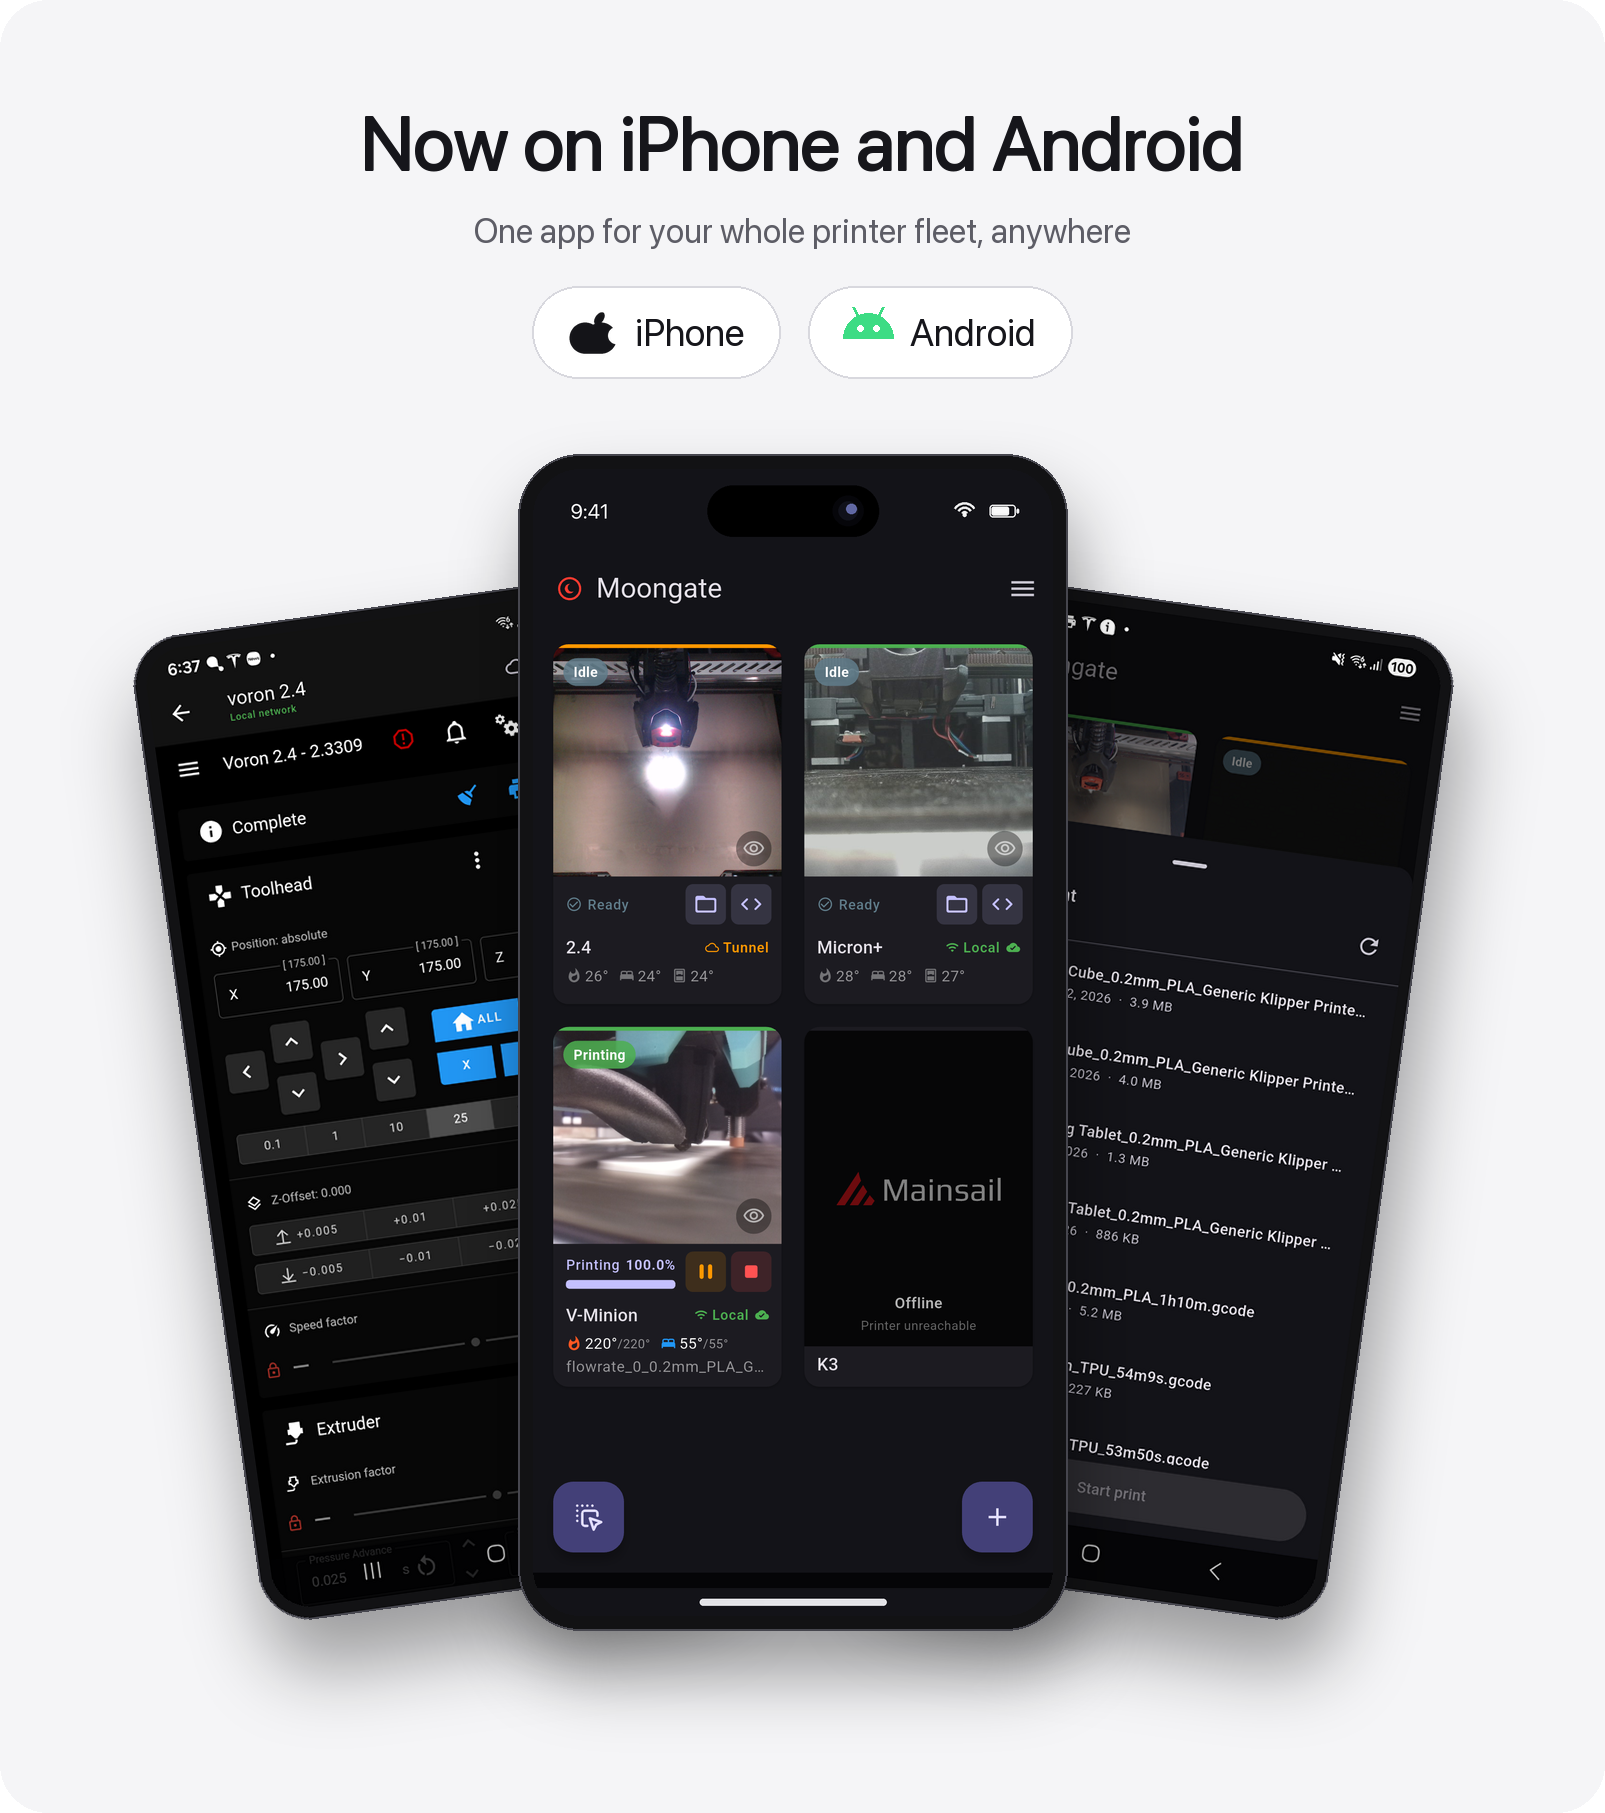
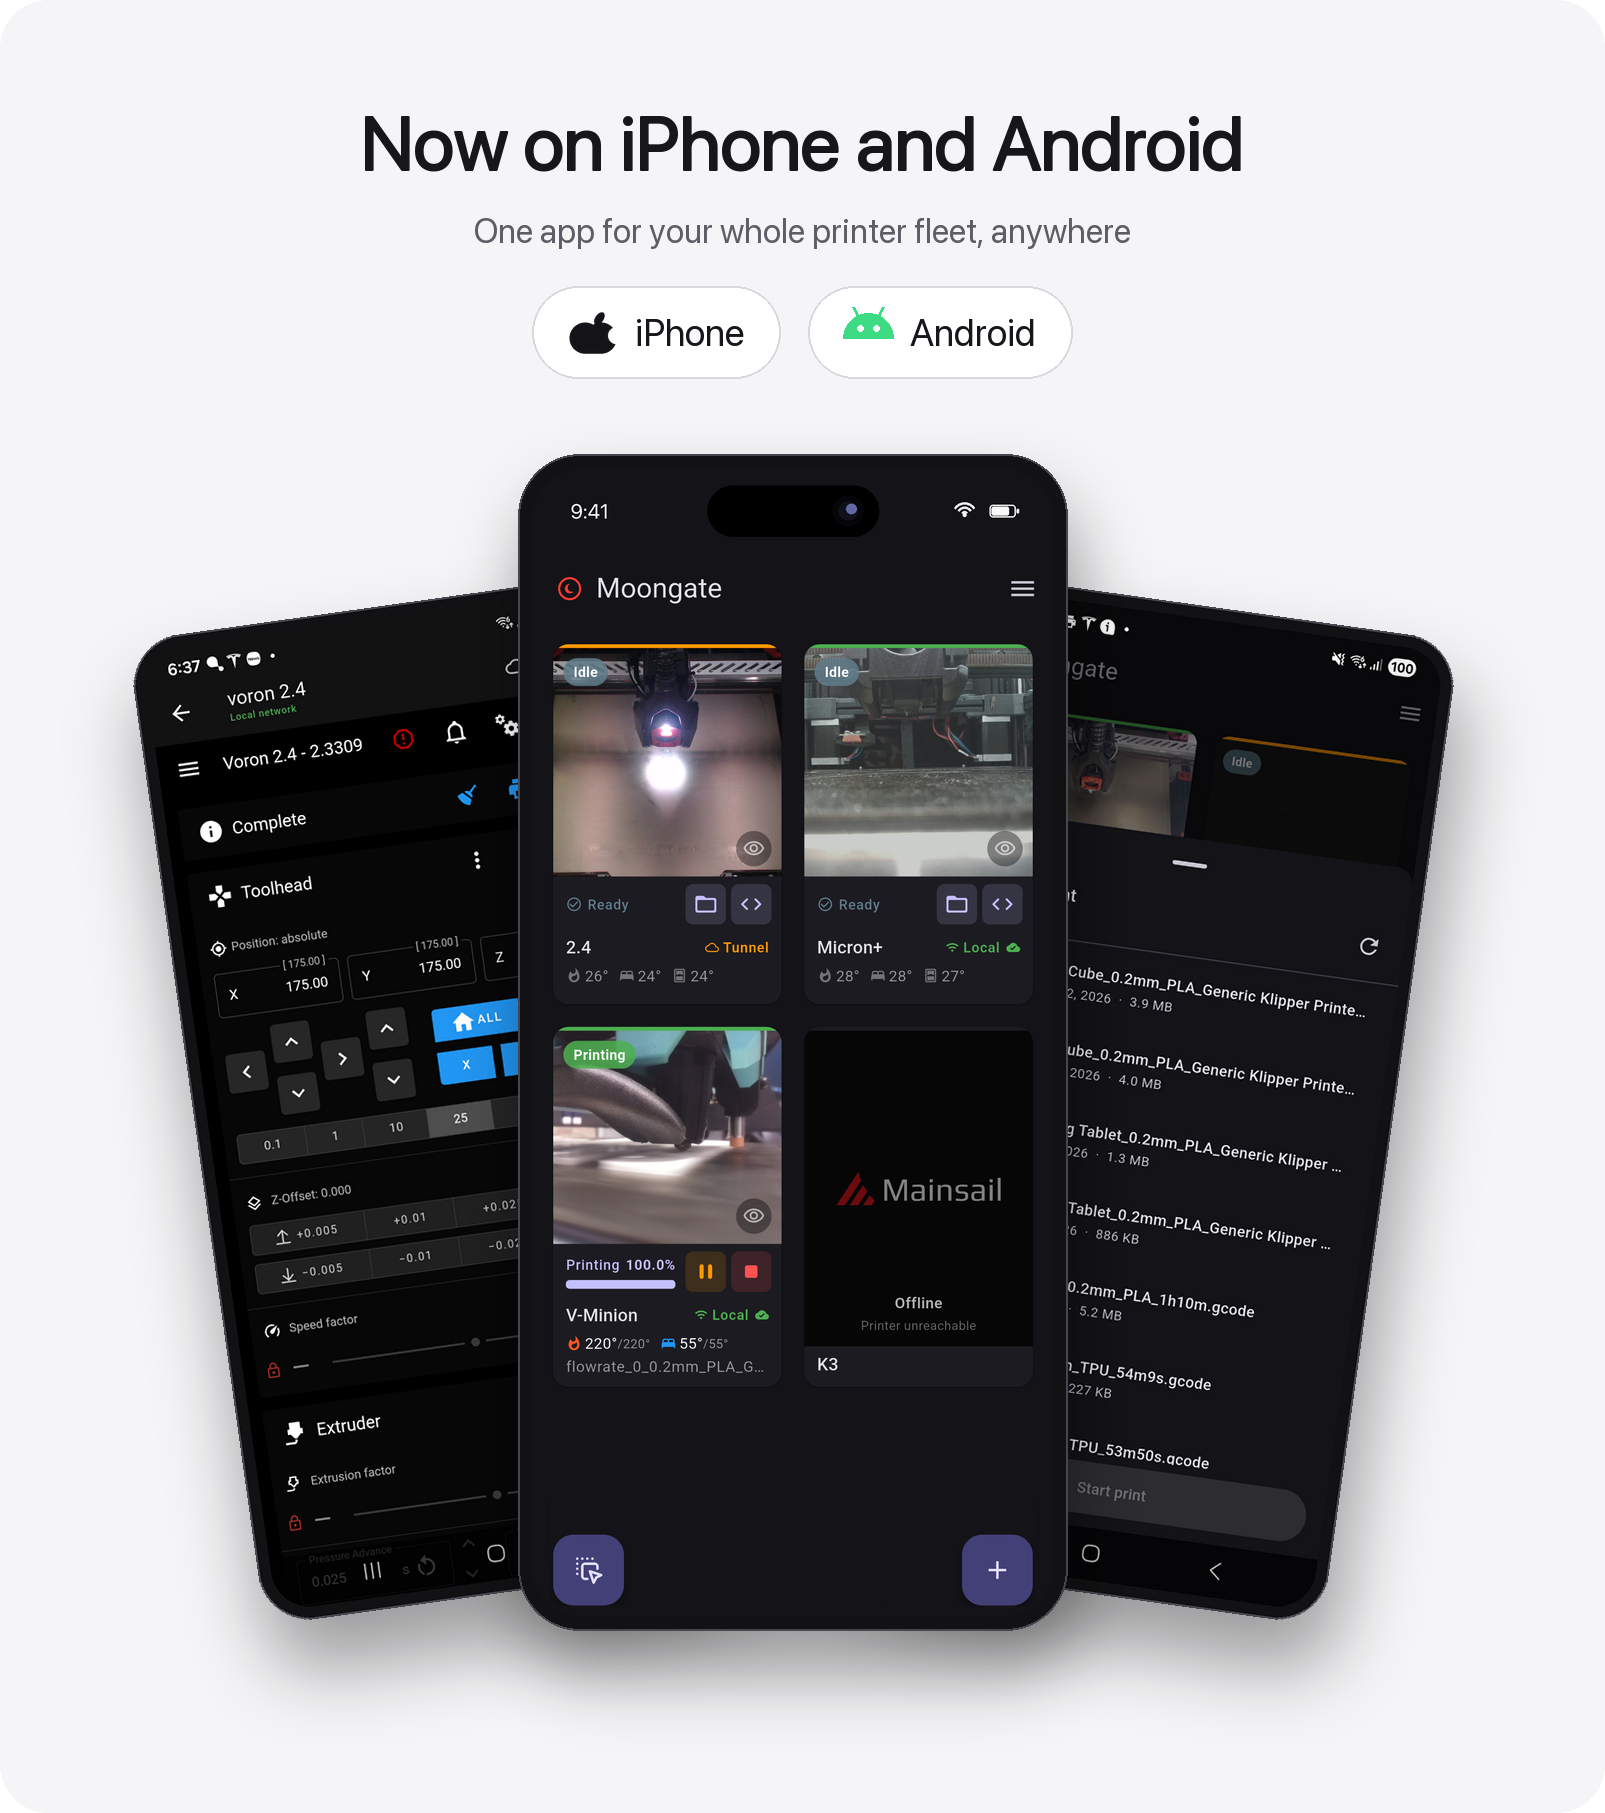
docs: v0.9.46 session sweep + refreshed iOS hero image [skip ci] (#177)
- README: note the new pause/play button in the print-notifications feature.
- TROUBLESHOOTING: add a "notification vanished / paused" entry for v0.9.46.
- Swap in the tweaked hero-ios.png (the README already points at it).

ARCHITECTURE / DEVELOPMENT / SECURITY unaffected: the pause is a UI control
over the existing notification service, no new component, endpoint, or auth
change. The v0.9.46 changelog already shipped in #176.

Changed region(s): [[0.5919, 0.8031, 0.6542, 0.8958], [0.3427, 0.8031, 0.405, 0.8958], [0.4361, 0.8649, 0.5607, 0.8958]]

diff --git a/TROUBLESHOOTING.md b/TROUBLESHOOTING.md
@@ -65,6 +65,10 @@ If you power a printer back on (from Home Assistant, a smart plug, or its own sw
 
 To save battery, your phone can freeze Moongate while it's in the background, which briefly drops its live-status link - so on return the app still thinks the printer is off, even though the notifications may already show it back. Since **v0.9.45**, Moongate re-checks every printer's live status the moment you switch back to it, so the tile clears itself within a few seconds, no force-close needed. On older versions, force-stop Moongate and reopen it to refresh.
 
+## Your print-status notification vanished, or notifications stopped updating
+
+If print notifications were on but the ongoing status notification is gone and you're no longer getting updates, you may have **paused** them. Since **v0.9.46** there's a **pause/play button** in the dashboard top bar (it appears when notifications are on): tapping **pause** stops Moongate checking your printers in the background, which saves battery and removes the ongoing notification. Tap the same button (now a **play** icon) to resume. A pause is remembered across app restarts and reboots, so it stays off until you tap play.
+
 ## Chamber temperature missing on the dashboard
 
 If a printer's chamber temperature doesn't appear on its tile even though it shows in Mainsail, update to **v0.9.32 or newer**. That release made chamber detection robust for combined chamber sensors (`temperature_combined`) and sensors named with capital letters, especially over the remote tunnel.

diff --git a/README.md b/README.md
@@ -46,7 +46,7 @@ Free, open-source **iPhone and Android** control for your **Klipper 3D printer**
 - 📂 **Print files on the printer** - tap the folder button on a ready printer to browse the G-code already saved on it, shown with slicer **thumbnails**, newest first. Pick one and **Start print** with a confirm tap - no slicer, no re-upload.
 - 🖥️ **Full Mainsail / Fluidd UI** - tap a tile to open the complete web UI in-app; whichever you run is auto-detected. Every printer's page is **warmed in the background the moment the app starts and then kept loaded, so even the first time you open a printer it's instant** - no "Initializing…" reload, a big difference over the tunnel. A built-in full-screen **camera view** (top-bar icon) keeps the feed working when you're away - even for an external camera the embedded page can't load over mobile data.
 - 📡 **Auto local ↔ remote** - tries home WiFi first every poll, falls back to the Cloudflare tunnel within ~2s when you're away, and flips back to "Local" the moment you're home. Printers that are **switched off cost almost nothing in the background** - the dashboard and the print notifications both stop reaching out to them until they're back online - so it's easy on mobile data and battery.
-- 🔔 **Print notifications** - opt-in live fleet status in your notification shade - per-printer progress, the projected **finish time**, temperatures and heat-up - with start / finish / pause / error alerts and a configurable refresh interval. **Choose which details show and drag them into the order you want**, and the roster follows your dashboard's order (your **Auto-arrange by status** setting). Off by default.
+- 🔔 **Print notifications** - opt-in live fleet status in your notification shade - per-printer progress, the projected **finish time**, temperatures and heat-up - with start / finish / pause / error alerts and a configurable refresh interval. **Choose which details show and drag them into the order you want**, and the roster follows your dashboard's order (your **Auto-arrange by status** setting). A **pause/play button** in the top bar suspends the background checks with one tap when your printers will be off for a while (saving battery), then resumes them when you tap it again. Off by default.
 - 🔒 **App lock** - optional PIN + biometric (fingerprint/face) on launch, with configurable auto-lock and screenshot protection. Off by default.
 - 🎓 **Guided tour** - an optional in-app walkthrough, offered once you've added your first printer, that points out each part of the app live: the connection bars and what they mean (including the "tunnel still building" marker you see just after pairing), the temperatures and the double-tap emergency stop, the webcam and preheat, and the main options in the menu. Step forward or back, end it any time, and re-run it from the bottom of the menu.
 - 🌍 **8 languages** - fully translated into English, German, French, Spanish, Italian, Simplified Chinese, Russian, and Polish; choose on first launch or anytime from the menu.